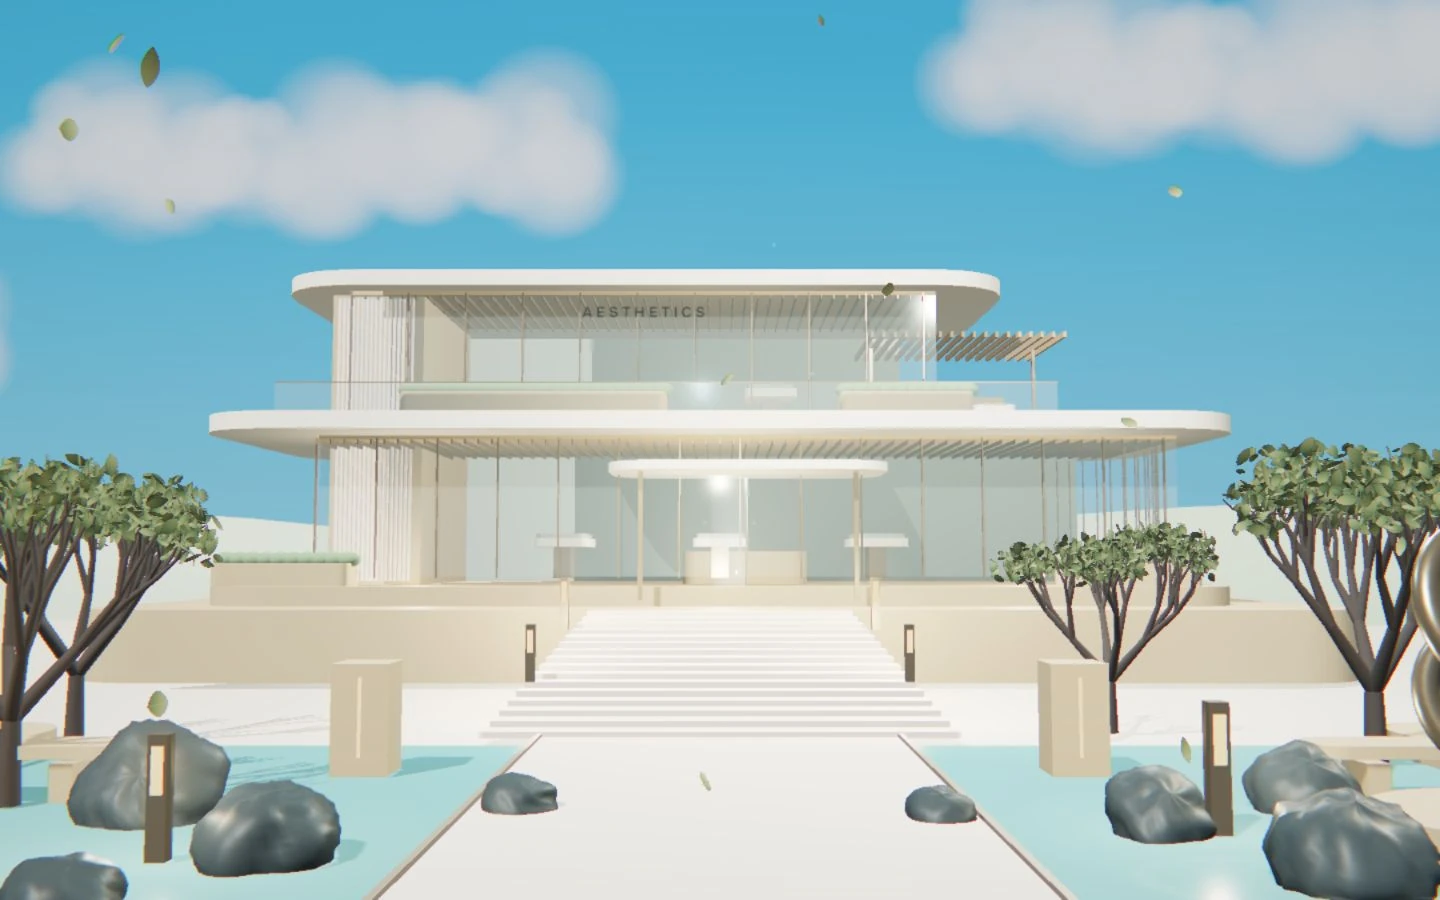
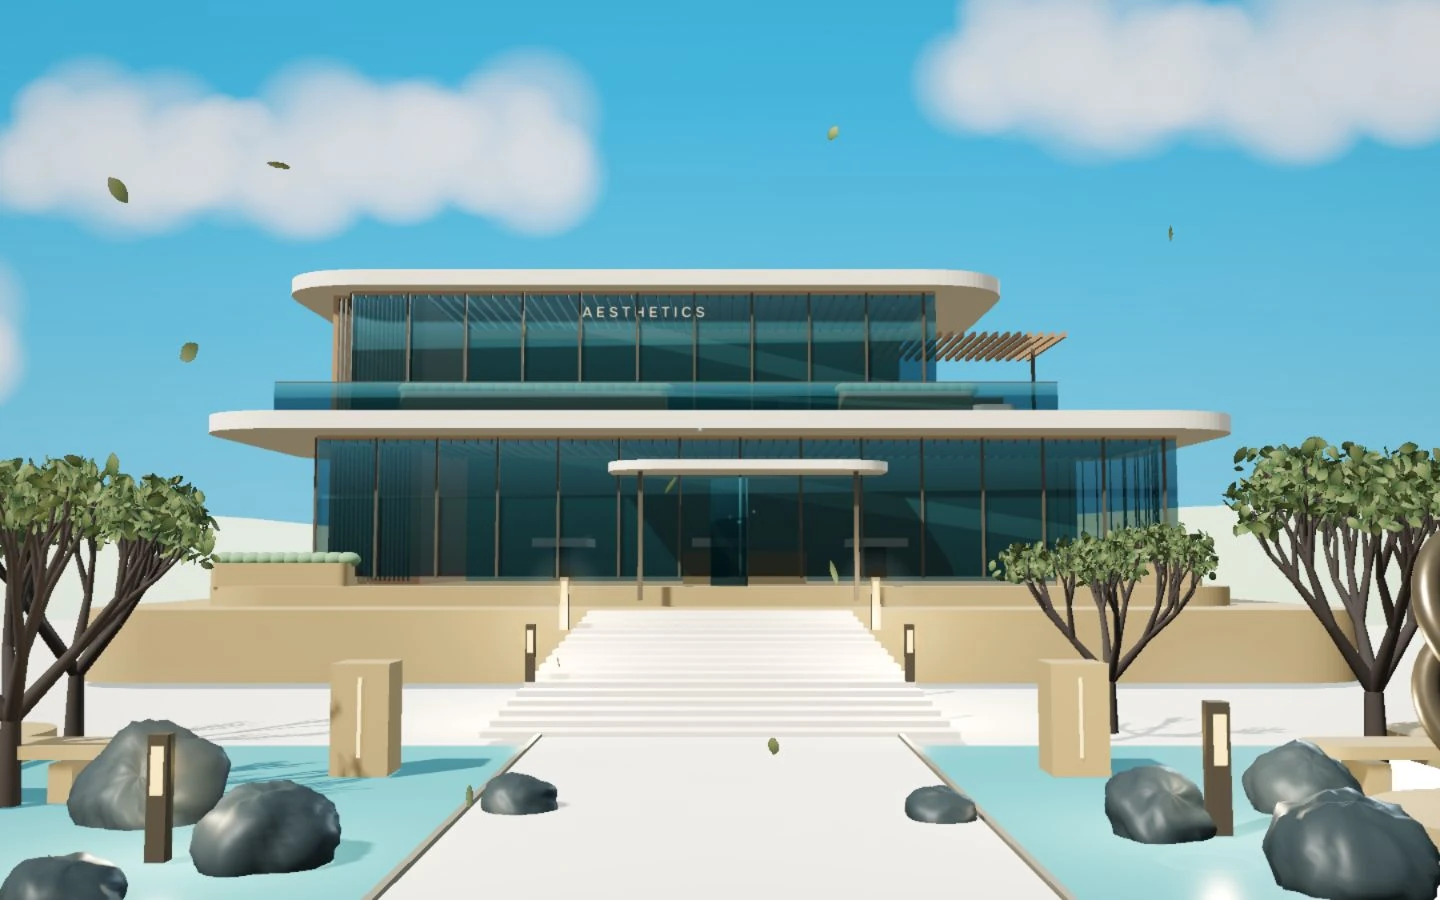
Refine clinic materials, full-resolution rendering and daylight typography

diff --git a/js/kage.js b/js/kage.js
@@ -1065,9 +1065,8 @@ const LOW = HI === 'low';
 const WANT_POST    = qs('post', '1') !== '0';
 const WANT_SHADOW  = qs('shadow', LOW ? '0' : '1') !== '0';
 const DPR_CAP      = qn('dpr', LOW ? 1.4 : 1.8);
-/* the renderer trades resolution for frame rate on its own — the scene is
-   fill-bound (five big alpha-blended veils plus a bloom chain), so pixels
-   are the only knob worth turning on unknown hardware */
+/* Adapt high-DPI supersampling, but never undersample the CSS viewport.
+   Architectural edges and facade details must remain legible on every device. */
 const PERF = { scale: 1, acc: 0, n: 0, locked: qs('adapt', '1') === '0' };
 
 function initGL() {
@@ -1092,7 +1091,7 @@ function initGL() {
      moved the hall by 0.18 of a luminance unit, the fog colour moves it
      properly. And it reaches by distance, so the foreground does not
      follow it down. */
-  scene.fog = new THREE.FogExp2(0xc9e1e6, 0.0045);
+  scene.fog = new THREE.FogExp2(0xc9e1e6, 0.0015);
   scene.background = new THREE.Color(0xa4d7ee);
   camera = new THREE.PerspectiveCamera(36, vpW() / vpH(), .35, 220);
   scene.add(camera);
@@ -2674,50 +2673,21 @@ function buildCardCloth() {
 }
 
 function buildLights() {
-  scene.add(new THREE.HemisphereLight(0xd3ebff, 0xa89d7d, .45));
-
-  const key = new THREE.DirectionalLight(0xfff3df, 1.55);
-  key.position.set(-18, 35, 15);
-  key.target.position.set(0, 2.2, -12.5); scene.add(key.target);
+  // A single sun and cool sky fill preserve the depth of the shaded facade.
+  scene.add(new THREE.HemisphereLight(0xd6edff, 0x70634d, .65));
+  const key = new THREE.DirectionalLight(0xffefd9, 1.35);
+  key.position.set(-28, 42, -15);
+  key.target.position.set(0, 4, -42); scene.add(key.target);
   if (WANT_SHADOW) {
     key.castShadow = true;
-    const S = LOW ? 1024 : 2048;
-    key.shadow.mapSize.set(S, S);
+    key.shadow.mapSize.set(LOW ? 1024 : 2048, LOW ? 1024 : 2048);
     const c = key.shadow.camera;
-    c.left = -26; c.right = 26; c.top = 34; c.bottom = -16; c.near = 3; c.far = 78;
-    key.shadow.bias = -0.0012; key.shadow.normalBias = .035; key.shadow.radius = 2.2;
+    c.left = -34; c.right = 34; c.top = 30; c.bottom = -32; c.near = 1; c.far = 110;
+    key.shadow.bias = -.0003; key.shadow.normalBias = .025; key.shadow.radius = 1.2;
   }
   scene.add(key); WORLD.key = key;
-
-  /* moonlight: no shadow, no fill, purely a rim down the right-hand slope of
-     every roof — without it the hall is a flat black cut-out against the sky */
-  const moonKey = new THREE.DirectionalLight(0xe7d3aa, .85);
-  moonKey.position.set(26, 30, -60);
-  moonKey.target.position.set(0, 8, -40); scene.add(moonKey.target);
-  scene.add(moonKey);
-
-  /* The hall's own lamps. They light the podium and the top of the flight and
-     nothing else — a range that reaches the roof turns the whole building into
-     a paper lantern and the silhouette disappears. */
-  const hallL = new THREE.PointLight(0xffd9a1, 3.1, 15, 2);
-  hallL.position.set(0, PODIUM + 1.2, TEMPLE_Z + 8.6); scene.add(hallL); WORLD.hallLight = hallL;
-  [-1, 1].forEach(s => {
-    const w = new THREE.PointLight(0xffd8a5, 2.7, 11, 2);
-    w.position.set(s * 11.4, PODIUM + 1.2, TEMPLE_Z + 5.6); scene.add(w);
-  });
-
-  /* the moon throws almost nothing, but a trace of red high on the right
-     keeps it attached to the scene instead of floating on top of it */
-  const moonL = new THREE.PointLight(0xded9bc, 3.0, 46, 2);
-  moonL.position.set(11.0, 17.0, -24.0); scene.add(moonL); WORLD.moonLight = moonL;
-
-  const fill = new THREE.PointLight(0x86c6d2, 0.95, 30, 2);
-  fill.position.set(-1, 13.5, -16.0); scene.add(fill);
-
-  /* the flight is the spine of the composition — without a lamp of its own it
-     falls into the same black as the ground and the eye has nothing to climb */
-  const stairL = new THREE.PointLight(0xffd9a3, 4.2, 17, 2);
-  stairL.position.set(0, 7.6, -26.0); scene.add(stairL);
+  const rim = new THREE.DirectionalLight(0xa8d4ed, .28);
+  rim.position.set(30, 18, -60); scene.add(rim);
 }
 /* ====================================================== 6 · planar mirror */
 /* ================================================== 7 · post-processing */
@@ -2769,7 +2739,7 @@ function initPost() {
   POST.comp = new THREE.ShaderMaterial({
     uniforms: {
       tS: { value: null }, tB: { value: null }, uRes: { value: new THREE.Vector2(w, h) },
-      uT: { value: 0 }, uBloom: { value: .12 }, uCA: { value: 1 }, uGrain: { value: .001 },
+      uT: { value: 0 }, uBloom: { value: .025 }, uCA: { value: 0 }, uGrain: { value: .001 },
       uVig: { value: .12 }, uExp: { value: .62 }, uFade: { value: 1 }, uSat: { value: 1.05 }
     },
     vertexShader: QUAD_VS,
@@ -2802,7 +2772,7 @@ function initPost() {
          in linear the same curve mostly crushes the shadows, and this frame is
          nearly all shadow. Pivoted low, at 0.30, so it deepens the night
          without pulling the lit paper of the hall down with it. */
-      ' e = clamp((e - 0.30) * 1.00 + 0.30, 0.0, 1.0);\n' +
+      ' e = clamp((e - 0.42) * 1.12 + 0.42, 0.0, 1.0);\n' +
       ' gl_FragColor = vec4( e, 1.0 );\n' +
       '}'
   });
@@ -3370,7 +3340,7 @@ const INTRO = { t0: 0 };
 function resize() {
   const w = vpW(), h = vpH();
   document.documentElement.style.setProperty('--vw', w + 'px');
-  renderer.setPixelRatio(Math.min(devicePixelRatio || 1, DPR_CAP) * PERF.scale);
+  renderer.setPixelRatio(Math.max(1, Math.min(devicePixelRatio || 1, DPR_CAP) * PERF.scale));
   renderer.setSize(w, h, true);
   camera.aspect = w / h; camera.updateProjectionMatrix();
   const pw = renderer.domElement.width, ph = renderer.domElement.height;
@@ -3382,7 +3352,7 @@ function resize() {
   }
   /* multisampling is the first thing to go when the budget tightens */
   if (POST.scene) {
-    const want = (!LOW && PERF.scale > .78) ? 2 : 0;
+    const want = LOW ? 0 : 2;
     if (POST.scene.samples !== want) { POST.scene.samples = want; POST.scene.dispose(); }
   }
   CARDS.forEach(C => { C.dirty = true; });
@@ -3478,7 +3448,7 @@ function frame(now) {
     PERF.acc += raw; PERF.n++;      /* … but the governor reads the truth */
     if (PERF.n >= 40 || PERF.acc > .9) {
       const avg = PERF.acc / PERF.n; PERF.acc = 0; PERF.n = 0;
-      if (avg > .0230 && PERF.scale > .55) { PERF.scale = Math.max(.55, PERF.scale * (avg > .05 ? .64 : .85)); resize(); }
+      if (avg > .034 && PERF.scale > 1 / Math.min(devicePixelRatio || 1, DPR_CAP)) { PERF.scale = Math.max(1 / Math.min(devicePixelRatio || 1, DPR_CAP), PERF.scale * .85); resize(); }
       else if (avg < .0138 && PERF.scale < 1) { PERF.scale = Math.min(1, PERF.scale + .08); resize(); }
     }
   }
@@ -3507,7 +3477,7 @@ function clinicStone() {
     x.fillStyle='#d9cbb6';x.fillRect(0,0,512,512);
     for(let i=0;i<3200;i++) {x.fillStyle='rgba(105,85,60,.1)';x.globalAlpha=.025+r()*.09;x.fillRect(r()*512,r()*512,3+r()*80,.3+r()*1.2);}
     x.globalAlpha=1;
-    return new THREE.MeshStandardMaterial({map:tx(c,{wrap:THREE.RepeatWrapping,repeat:[2,2]}),color:0xe9dbc9,roughness:.72,metalness:.02});
+    return new THREE.MeshStandardMaterial({map:tx(c,{wrap:THREE.RepeatWrapping,repeat:[2,2]}),color:0xc4ad8c,roughness:.82,metalness:.02});
   });
 }
 function clinicBox(g,w,h,d,x,y,z,mat) {
@@ -3551,11 +3521,16 @@ function roundedSlab(g,w,d,h,r,x,y,z,mat) {
 }
 function buildTemple() {
   const g=new THREE.Group(),F=PODIUM,Z=TEMPLE_Z;
-  const stone=clinicStone(),ivory=new THREE.MeshStandardMaterial({color:0xf5f0e5,roughness:.64});
-  const bronze=new THREE.MeshStandardMaterial({color:0x89745a,metalness:.6,roughness:.35});
-  const timber=new THREE.MeshStandardMaterial({color:0xa67c50,roughness:.75});
-  const interior=new THREE.MeshStandardMaterial({color:0x82988a,roughness:.85});
-  const glass=new THREE.MeshPhysicalMaterial({color:0x8caeb5,roughness:.12,metalness:.12,transparent:true,opacity:.22,depthWrite:false});
+  const stone=clinicStone(),ivory=new THREE.MeshStandardMaterial({color:0xe4dccb,roughness:.7});
+  const bronze=new THREE.MeshStandardMaterial({color:0x493f32,metalness:.45,roughness:.4});
+  const timber=new THREE.MeshStandardMaterial({color:0x765036,roughness:.78});
+  const interior=new THREE.MeshStandardMaterial({color:0x425951,roughness:.85});
+  const glassCanvas=cvs(256,512),gc=glassCanvas.getContext('2d');
+  const reflection=gc.createLinearGradient(0,0,80,512);
+  reflection.addColorStop(0,'#85b9ca');reflection.addColorStop(.42,'#547f88');reflection.addColorStop(.43,'#2b555c');reflection.addColorStop(1,'#183e45');
+  gc.fillStyle=reflection;gc.fillRect(0,0,256,512);
+  gc.fillStyle='rgba(234,247,247,.12)';gc.beginPath();gc.moveTo(28,0);gc.lineTo(70,0);gc.lineTo(256,390);gc.lineTo(256,460);gc.closePath();gc.fill();
+  const glass=new THREE.MeshPhysicalMaterial({map:tx(glassCanvas),color:0x9bced4,roughness:.18,metalness:.1,transparent:true,opacity:.82,depthWrite:false});
   const leaf=new THREE.MeshStandardMaterial({color:0x50704b,roughness:.91});
   function planter(x,y,z,w,d){
     roundedSlab(g,w,d,.85,.35,x,y,z,stone);
@@ -3568,13 +3543,13 @@ function buildTemple() {
   roundedSlab(g,27,12,.35,2.5,-3,F+7,Z-1.8,stone);
   clinicBox(g,33,5.8,.5,0,F+3.6,Z-6,interior);
   clinicBox(g,23,5.2,.5,-3,F+9.5,Z-7,interior);
-  clinicBox(g,3.6,11.6,10,-13.5,F+6.3,Z-1,stone);
+  clinicBox(g,3.6,11.6,10,-13.5,F+6.3,Z-1,timber);
   // Fluted stone core and deep timber fins are real geometry, not a painted facade.
-  for(let i=0;i<17;i++)clinicBox(g,.075,11.1,.2,-15+i*.18,F+6.4,Z+4.1,ivory);
+  for(let i=0;i<17;i++)clinicBox(g,.075,11.1,.2,-15+i*.18,F+6.4,Z+4.1,bronze);
   for(let floor=0;floor<2;floor++){
     const width=floor?23:32,y=F+(floor?9.55:3.6),cx=floor?-3:1,z=Z+(floor?4.2:6.7);
     clinicBox(g,width,5.1,.09,cx,y,z,glass);
-    for(let x=-width/2;x<=width/2+.1;x+=2.25)clinicBox(g,.055,5.2,.15,cx+x,y,z+.12,bronze);
+    for(let x=-width/2;x<=width/2+.1;x+=2.25)clinicBox(g,.085,5.2,.18,cx+x,y,z+.12,bronze);
     // A set-back ceiling and repeated linear strips give depth to the soffit.
     clinicBox(g,width,.16,8,cx,y+2.6,z-3.9,timber);
     for(let x=-width/2;x<width/2;x+=.5)clinicBox(g,.045,.18,8,cx+x,y+2.46,z-3.9,bronze);
@@ -3604,7 +3579,7 @@ function buildTemple() {
   const door=new THREE.Mesh(new THREE.CylinderGeometry(1.35,1.35,4,48,1,true,Math.PI,Math.PI),glass);door.position.set(1,F+2.65,Z+6.4);g.add(door);
   clinicBox(g,.05,4.1,2.3,1,F+2.65,Z+6.4,bronze);
   roundedSlab(g,5,1.5,1.3,.7,1,F+.7,Z+2,stone);
-  const signCanvas=cvs(1024,160),ctx=signCanvas.getContext('2d');ctx.fillStyle='#30453e';ctx.textAlign='center';ctx.font='500 64px Onest,sans-serif';ctx.fillText('A E S T H E T I C S',512,95);
+  const signCanvas=cvs(1024,160),ctx=signCanvas.getContext('2d');ctx.fillStyle='#eee4cd';ctx.textAlign='center';ctx.font='500 64px Onest,sans-serif';ctx.fillText('A E S T H E T I C S',512,95);
   const sign=new THREE.Mesh(new THREE.PlaneGeometry(9,1.4),new THREE.MeshBasicMaterial({map:tx(signCanvas),transparent:true,depthWrite:false}));sign.position.set(-3,F+11.3,Z+4.4);g.add(sign);
   // Terrace lounge furniture and arrival planting complete the human scale.
   [8,11].forEach(x=>{roundedSlab(g,1.7,2.6,.35,.4,x,F+7.5,Z+2,ivory);clinicBox(g,1.6,.8,.25,x,F+8,Z+.8,timber);});

diff --git a/css/daylight.css b/css/daylight.css
@@ -18,12 +18,12 @@ body{background:#f5f4eb;color:#233e38}
 .peek-fr{box-shadow:0 12px 32px #36594724}.peek-cap b,.peek-cap i{color:#3b584b}.peek-play svg path{fill:#315a4d}
 .cta:hover{color:#fffdf4}.foot li a,.foot-brand p{color:#4e6458}.rail i{background:#55786580}.cur-dot{border-color:#325e4966}.cur-dot.act{border-color:#325e49;background:#325e4910}
 .fg-el>img{filter:saturate(.6) brightness(1.28);opacity:.42}.fg-wall,.fg-ruins,.fg-lantern{opacity:.18!important}
-.no-webgl body{background-image:linear-gradient(#f1f7ea33,#f4f7ea44),url('../img/clinic/courtyard.webp')}.no-webgl .word-fb{background:linear-gradient(#30594c,#1d4438);background-clip:text;-webkit-background-clip:text}.no-webgl .hero::after{background:none}
+.no-webgl body{background-image:linear-gradient(#f1f7ea33,#f4f7ea44),url('../img/clinic/courtyard.webp?v=atelier-20261002')}.no-webgl .word-fb{background:linear-gradient(#30594c,#1d4438);background-clip:text;-webkit-background-clip:text}.no-webgl .hero::after{background:none}
 @media(max-width:820px){.nav-links{background:rgba(248,250,242,.98)}.hero-top{background:linear-gradient(90deg,rgba(242,248,235,.35),transparent);border-radius:3px}.hero-sub{color:#264a3d!important}.hero-action{font-size:10px}.hero-spacer{min-height:260px}}
 /* Interior pages use their existing semantic ink/paper tokens. */
 .interior{--ink:#233e38;--paper:#f5f4eb;--red:#416c5a;--muted:#51685b;--dark:#e9eee1;--line:#cdd7c8;background:#f5f4eb;color:#233e38}
 .interior .navbar,.interior .navbar.is-scrolled{background:#f8f9f0ed;color:#233e38}.interior .nav-menu a{color:#294e40}.interior .logo{color:#233e38}
-.interior .page-hero{background:linear-gradient(90deg,#f4f8ede8,#f4f8ed80),url('../img/clinic/courtyard.webp') center/cover;color:#233e38}
+.interior .page-hero{background:linear-gradient(90deg,#f4f8ede8,#f4f8ed80),url('../img/clinic/courtyard.webp?v=atelier-20261002') center/cover;color:#233e38}
 .interior .page-hero::before,.interior .page-hero::after{background:none}.interior .page-hero h1{color:#233e38;font-weight:500}.interior .page-hero-content>p{color:#405b4d}
 .interior .bg-darker,.interior .contact-form-wrapper,.interior .contact-direct{background:#e9eee1;color:#233e38}.interior .service-card,.interior .info-card{background:transparent;color:#233e38}.interior p{color:#496052}
 .interior .btn-primary{background:#315a4d;color:#fffdf5;border-color:#315a4d}.interior .btn-primary:hover{background:#234b3e}.interior .btn-outline{color:#315a4d;border-color:#315a4d}
@@ -34,3 +34,26 @@ body{background:#f5f4eb;color:#233e38}
 .nav{color:#264f42}.brand-tx b{color:#264f42}.hero-cue .track{background:#47685640}
 .body,.body-lg{color:#405c50}.card-lab .jp{color:#355e4c}.no-webgl .card-fr{background-color:#e2ebdb}
 @media(max-width:820px){.hero-top{background:none}}
+
+/* Warm architectural materials, ink typography and restrained editorial spacing. */
+:root{--bone:#203934;--bone-dim:#354c45;--muted:#536259;--vermilion:#315448;--ember:#886648}
+body{font-weight:400}
+.display{text-transform:none;letter-spacing:-.045em;font-weight:500;line-height:1.08;color:#203934}
+.hero h1{font-size:clamp(30px,3.4vw,51px);line-height:1.08;letter-spacing:-.045em;font-weight:500;color:#183930}
+.hero-top .eyebrow{color:#314c42;letter-spacing:.16em;font-weight:500}
+.hero-sub{font-size:14px;line-height:1.7;font-weight:400;color:#334b41!important;max-width:330px}
+.nav-link{font-size:11px;letter-spacing:.12em;font-weight:500}.brand-tx i{letter-spacing:.2em}
+.body,.body-lg{font-weight:400;line-height:1.85;color:#3c5047}.body{font-size:14px}.body-lg{font-size:16px}
+.eyebrow{letter-spacing:.18em;font-weight:500;color:#58664f}
+.hero::before{background:linear-gradient(110deg,rgba(247,246,233,.78),rgba(247,246,233,.22) 30%,transparent 47%)}
+#vignette{background:none}.hero-side .v{color:#294f42!important}.chip b{color:#263f35;font-weight:500}.chip p{color:#3d5247;font-weight:400}
+.peek-fr,.card-fr{background-size:cover!important;background-position:center!important;background-repeat:no-repeat!important}
+.peek-cap b,.peek-cap i{color:#304b40}.peek-cap i{font-weight:400}
+.issue-card p,.process-card p,.feature-list p,.testimonial-card>p,.result-desc{font-weight:400;line-height:1.8}
+.interior h1,.interior h2,.interior h3{text-transform:none;letter-spacing:-.035em;color:#203934}
+.interior p{font-weight:400;line-height:1.8}.interior .page-hero-content>p{color:#344c41}
+@media(max-width:820px){.hero h1{font-size:clamp(30px,7.6vw,42px)}.hero-sub{font-size:13px;max-width:290px}.hero::before{background:linear-gradient(115deg,rgba(247,246,233,.82),rgba(247,246,233,.34) 42%,transparent 69%)}}
+
+.hero::before{height:min(680px,76vh);right:auto;width:min(550px,46vw);background:radial-gradient(ellipse at 0 28%,rgba(248,247,236,.94),rgba(248,247,236,.78) 48%,rgba(248,247,236,0) 73%)}
+.hero-sub{max-width:305px!important}
+@media(max-width:820px){.hero::before{width:100%;height:550px;background:linear-gradient(180deg,rgba(248,247,236,.86),rgba(248,247,236,.66) 60%,transparent)}.hero-sub{max-width:290px!important}}

diff --git a/index.html b/index.html
@@ -8,8 +8,8 @@
         content="AVMEDIA builds patient acquisition systems for med spas with Meta ads, instant follow-up, appointment booking, and transparent reporting.">
 <link rel="icon" href="img/favicon.svg" type="image/svg+xml">
 <link rel="stylesheet" href="landing-pages/secret-pathways-assets/fonts.css">
-<link rel="stylesheet" href="css/kage.css?v=daylight-20261001">
-<link rel="stylesheet" href="css/avmedia-kage.css?v=daylight-20261001">
+<link rel="stylesheet" href="css/kage.css?v=atelier-20261002">
+<link rel="stylesheet" href="css/avmedia-kage.css?v=atelier-20261002">
 <link rel="canonical" href="https://avclinicflow.com/">
 <meta property="og:title" content="AVMEDIA | Predictable Patient Flow for Med Spas">
 <meta property="og:description" content="Marketing systems, instant follow-up, and transparent reporting for modern med spas.">
@@ -26,7 +26,7 @@
     gtag('config', 'G-T0M01M1FXW');
     </script>
 <noscript><style>#pre{display:none}[data-rv],.word{opacity:1;transform:none}.mask-line>span{transform:none!important}.word-fb{display:block}.nav-links{position:static;transform:none;visibility:visible;opacity:1;pointer-events:auto}.nav{position:relative;height:auto;flex-wrap:wrap;padding-block:20px}.hero-top{padding-top:20px}</style></noscript>
-<link rel="stylesheet" href="css/daylight.css?v=daylight-20261001">
+<link rel="stylesheet" href="css/daylight.css?v=atelier-20261002">
 </head>
 <body data-layout-hero="b" data-layout-story="b" data-layout-gallery="b"
       data-layout-curriculum="b" data-layout-closing="b" data-layout-footer="b">
@@ -533,7 +533,7 @@
 <div class="rail" id="rail"></div>
 
 <script src="landing-pages/secret-pathways-assets/three.min.js"></script>
-<script src="js/kage.js?v=daylight-20261001" defer></script>
-<script src="js/avmedia-kage.js?v=daylight-20261001" defer></script>
+<script src="js/kage.js?v=atelier-20261002" defer></script>
+<script src="js/avmedia-kage.js?v=atelier-20261002" defer></script>
 </body>
 </html>

diff --git a/css/avmedia-kage.css b/css/avmedia-kage.css
@@ -35,11 +35,11 @@ body[data-layout-closing="b"] .fin h2{writing-mode:horizontal-tb;font-size:clamp
 .fg-wall,.fg-ruins{opacity:.65!important}
 .fg-pine{width:min(32vw,440px)!important}
 .fg-lantern{width:min(23vw,310px)!important}
-.peek-fr,.no-webgl .peek-fr{background-image:url('../img/clinic/courtyard.webp')!important}
-.card:nth-child(1) .card-fr{background-image:url('../img/clinic/courtyard.webp')!important}
-.card:nth-child(2) .card-fr{background-image:url('../img/clinic/care.webp')!important}
-.card:nth-child(3) .card-fr{background-image:url('../img/clinic/water.webp')!important}
-.no-webgl body{background-image:linear-gradient(#05070a66,#05070a88),url('../img/clinic/courtyard.webp')}
+.peek-fr,.no-webgl .peek-fr{background-image:url('../img/clinic/courtyard.webp?v=atelier-20261002')!important}
+.card:nth-child(1) .card-fr{background-image:url('../img/clinic/courtyard.webp?v=atelier-20261002')!important}
+.card:nth-child(2) .card-fr{background-image:url('../img/clinic/care.webp?v=atelier-20261002')!important}
+.card:nth-child(3) .card-fr{background-image:url('../img/clinic/water.webp?v=atelier-20261002')!important}
+.no-webgl body{background-image:linear-gradient(#05070a66,#05070a88),url('../img/clinic/courtyard.webp?v=atelier-20261002')}
 .scene-artwork .page,.scene-artwork .nav,.scene-artwork #pre,.scene-artwork #rail,.scene-artwork #cursor,.scene-artwork #fg-sky,.scene-artwork .skip-link{visibility:hidden!important}
 .scene-artwork #gl{z-index:70}
 .scene-artwork{scrollbar-width:none}.scene-artwork::-webkit-scrollbar{display:none}

diff --git a/css/kage-interior.css b/css/kage-interior.css
@@ -1,2 +1,2 @@
 :root{--paper:#05070a;--ink:#dfe7e0;--muted:#aab4ad;--red:#c9b28e;--serif:Onest,sans-serif;--sans:Onest,sans-serif}
-.interior{background:#05070a}.page-hero{background:linear-gradient(90deg,#05070aee,#05070a55),url('../img/clinic/courtyard.webp') center/cover}.page-hero h1{text-transform:uppercase;font-weight:400;font-size:clamp(38px,4vw,64px);letter-spacing:-.012em}.navbar,.navbar.is-scrolled{background:#05070aee}.logo{letter-spacing:.12em;font-size:18px}.page-hero-content>p{font-weight:300}.interior h2{font-size:clamp(32px,3.5vw,54px);letter-spacing:-.012em}.btn-primary{background:#c9b28e;border-color:#c9b28e;color:#101a16}.btn-primary:hover{background:#a58d68;border-color:#a58d68}.contact-form-wrapper,.contact-direct,.interior .bg-darker{background:#0a0e12}
+.interior{background:#05070a}.page-hero{background:linear-gradient(90deg,#05070aee,#05070a55),url('../img/clinic/courtyard.webp?v=atelier-20261002') center/cover}.page-hero h1{text-transform:uppercase;font-weight:400;font-size:clamp(38px,4vw,64px);letter-spacing:-.012em}.navbar,.navbar.is-scrolled{background:#05070aee}.logo{letter-spacing:.12em;font-size:18px}.page-hero-content>p{font-weight:300}.interior h2{font-size:clamp(32px,3.5vw,54px);letter-spacing:-.012em}.btn-primary{background:#c9b28e;border-color:#c9b28e;color:#101a16}.btn-primary:hover{background:#a58d68;border-color:#a58d68}.contact-form-wrapper,.contact-direct,.interior .bg-darker{background:#0a0e12}

diff --git a/contactUs.html b/contactUs.html
@@ -13,8 +13,8 @@
     <link rel="stylesheet" href="css/style.css">
     <link rel="stylesheet" href="css/cinematic.css">
 <link rel="stylesheet" href="landing-pages/secret-pathways-assets/fonts.css">
-<link rel="stylesheet" href="css/kage-interior.css?v=daylight-20261001">
-<link rel="canonical" href="https://avclinicflow.com/contactUs.html"><meta name="theme-color" content="#0b0e10"><link rel="icon" href="img/favicon.svg" type="image/svg+xml"><meta property="og:title" content="Contact AVMEDIA | Build Your Patient Flow System"><meta property="og:type" content="website"><meta property="og:image" content="https://avclinicflow.com/img/social-preview.png"><link rel="stylesheet" href="css/daylight.css?v=daylight-20261001">
+<link rel="stylesheet" href="css/kage-interior.css?v=atelier-20261002">
+<link rel="canonical" href="https://avclinicflow.com/contactUs.html"><meta name="theme-color" content="#f5f4eb"><link rel="icon" href="img/favicon.svg" type="image/svg+xml"><meta property="og:title" content="Contact AVMEDIA | Build Your Patient Flow System"><meta property="og:type" content="website"><meta property="og:image" content="https://avclinicflow.com/img/social-preview.png"><link rel="stylesheet" href="css/daylight.css?v=atelier-20261002">
 </head>
 
 <body class="interior"><a class="skip-link" href="#main">Skip to content</a>

diff --git a/aboutUs.html b/aboutUs.html
@@ -13,8 +13,8 @@
     <link rel="stylesheet" href="css/style.css">
     <link rel="stylesheet" href="css/cinematic.css">
 <link rel="stylesheet" href="landing-pages/secret-pathways-assets/fonts.css">
-<link rel="stylesheet" href="css/kage-interior.css?v=daylight-20261001">
-<link rel="canonical" href="https://avclinicflow.com/aboutUs.html"><meta name="theme-color" content="#0b0e10"><link rel="icon" href="img/favicon.svg" type="image/svg+xml"><meta property="og:title" content="About AVMEDIA | Med Spa Growth Agency"><meta property="og:type" content="website"><meta property="og:image" content="https://avclinicflow.com/img/social-preview.png"><link rel="stylesheet" href="css/daylight.css?v=daylight-20261001">
+<link rel="stylesheet" href="css/kage-interior.css?v=atelier-20261002">
+<link rel="canonical" href="https://avclinicflow.com/aboutUs.html"><meta name="theme-color" content="#f5f4eb"><link rel="icon" href="img/favicon.svg" type="image/svg+xml"><meta property="og:title" content="About AVMEDIA | Med Spa Growth Agency"><meta property="og:type" content="website"><meta property="og:image" content="https://avclinicflow.com/img/social-preview.png"><link rel="stylesheet" href="css/daylight.css?v=atelier-20261002">
 </head>
 
 <body class="interior"><a class="skip-link" href="#main">Skip to content</a>
